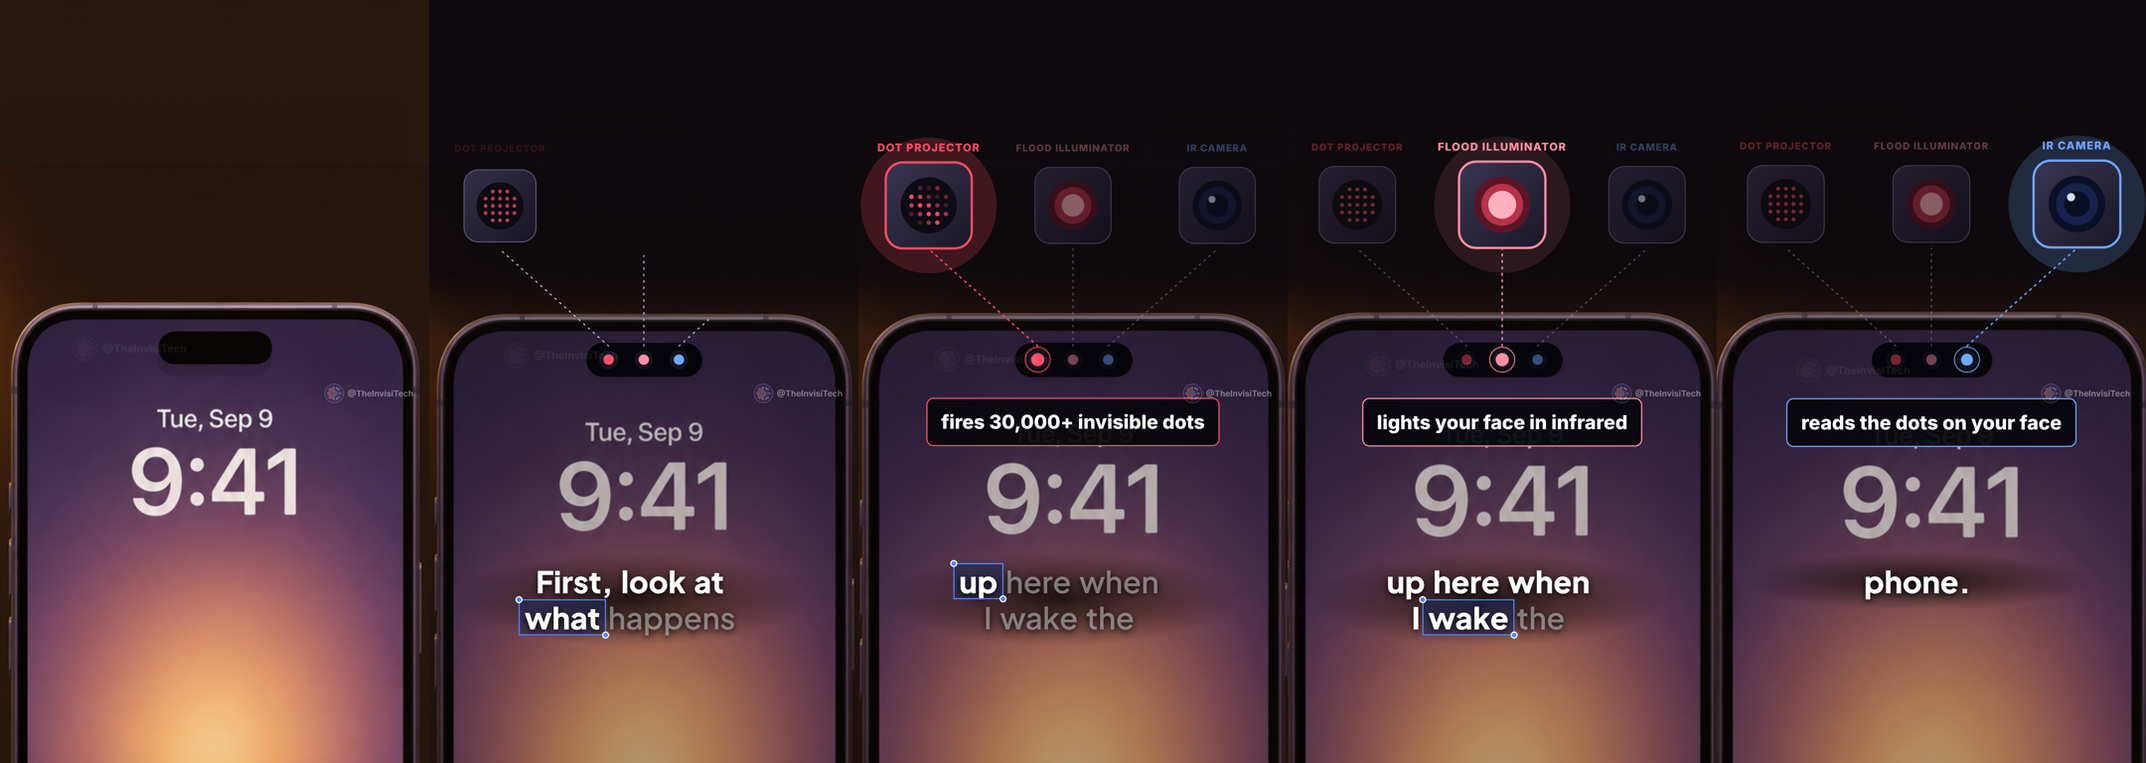
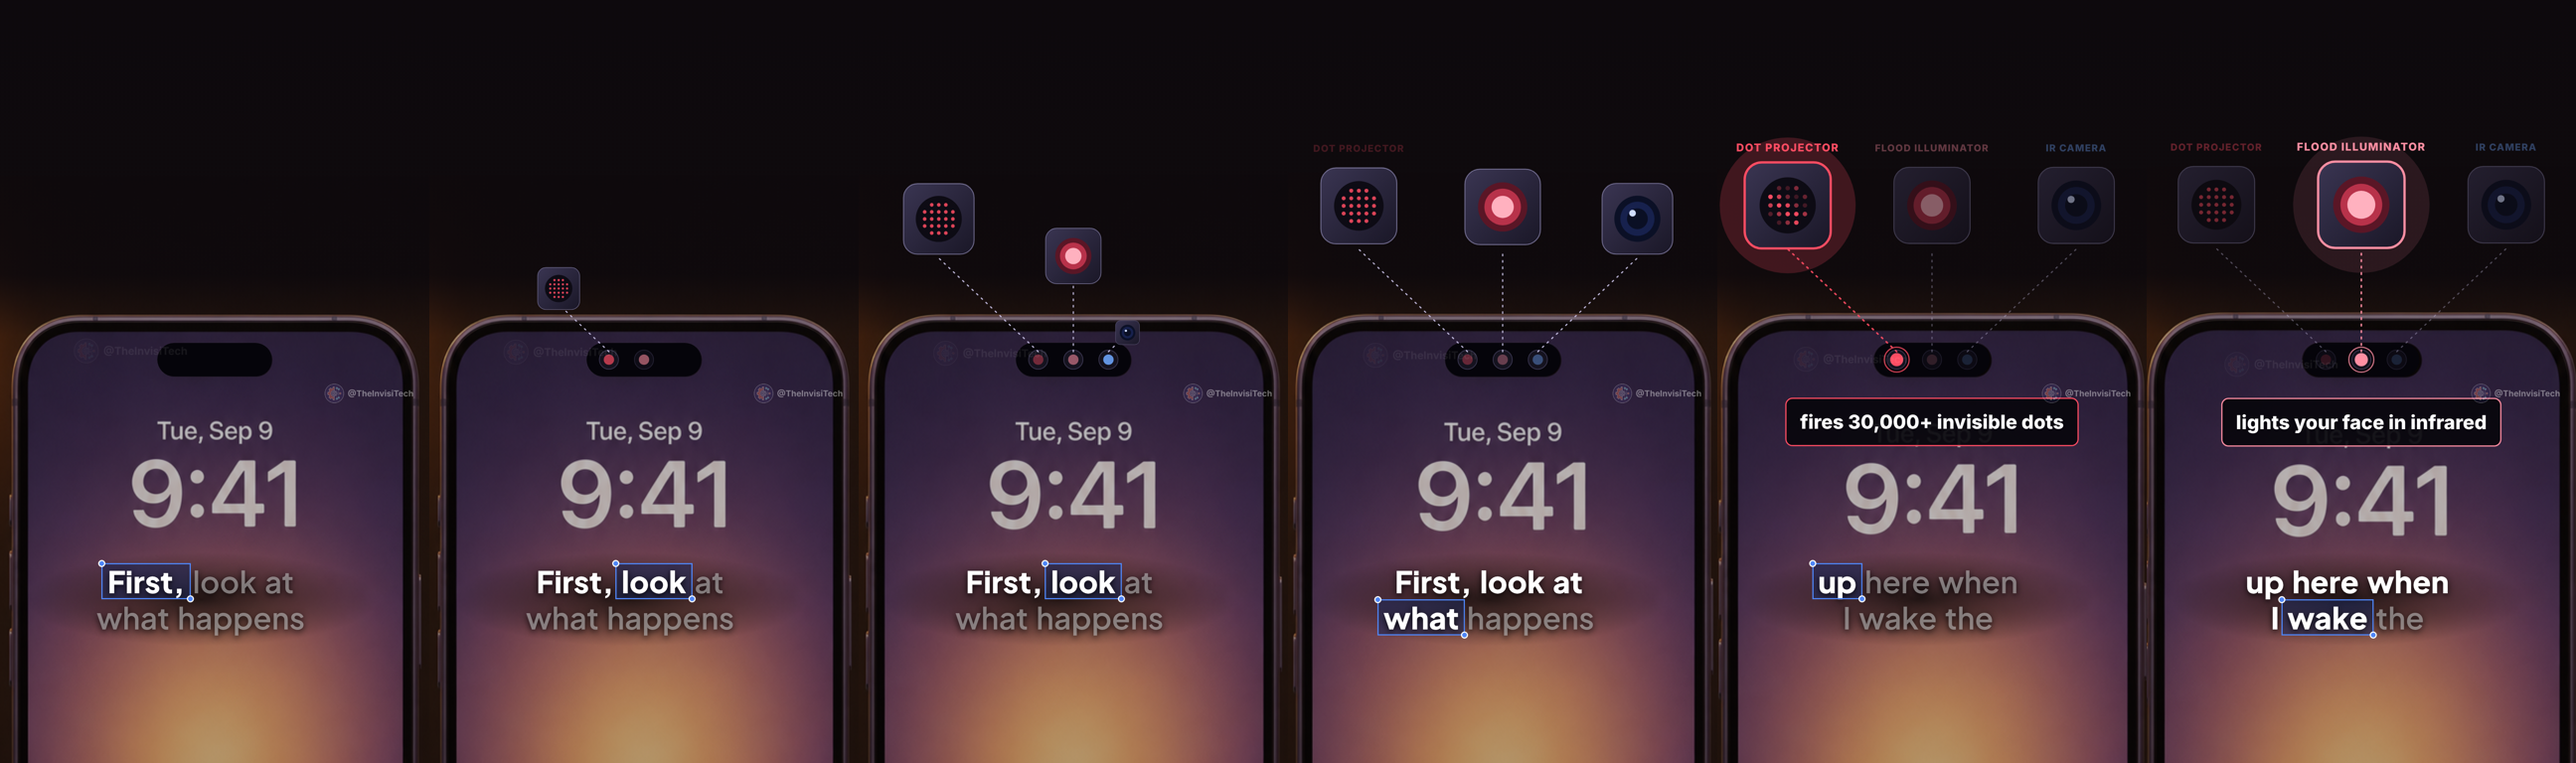
Mirror Short: parts are pushed up out of the real phone's island to become the cards, then explained
Claude-Session: https://claude.ai/code/session_01GXcKc5WnFrVWBsHLe8YpAy

diff --git a/face-id/mirror-short/src/scenes/PhoneParts.tsx b/face-id/mirror-short/src/scenes/PhoneParts.tsx
@@ -18,6 +18,8 @@ const CY = 520, S = 190;                                   // cards: centre y an
 export const PhoneParts: React.FC<{ f: number }> = ({ f }) => {
   const m = ramp(f, IN + 2, IN + 18, 0, 1, io);            // island settles from the photo's island to the diagram's
   const iw = 288, ih = 84, icy = 905;                       // the real phone's own Dynamic Island (HandPhone settles it here)
+  // tear-down: each part is pushed up out of the island along its own line and becomes its card
+  const lift = (i: number) => ramp(f, IN + 14 + i * 4, IN + 30 + i * 4, 0, 1, out3);
   const active = f < EXPLAIN ? -1 : Math.min(2, Math.floor((f - EXPLAIN) / CARD));
   return (
     <AbsoluteFill style={{ opacity: ramp(f, IN, IN + 8), background: 'linear-gradient(180deg, rgba(8,6,12,.86) 0%, rgba(8,6,12,.8) 36%, rgba(8,6,12,.25) 44%, rgba(8,6,12,.3) 100%)', overflow: 'hidden' }}>
@@ -32,23 +34,23 @@ export const PhoneParts: React.FC<{ f: number }> = ({ f }) => {
         <rect x={540 - iw / 2} y={icy - ih / 2} width={iw} height={ih} rx={ih / 2} fill="#05040a" />
         {PARTS.map((p, i) => { const o = ramp(f, IN + 12 + i * 3, IN + 18 + i * 3), act = active === i, dim = active >= 0 && !act;
           return (<g key={p.label} opacity={o * (dim ? 0.45 : 1)}>
-            <circle cx={p.dx} cy={icy} r={24} fill="#15131f" /><circle cx={p.dx} cy={icy} r={(act ? 16 + 1.5 * Math.sin(f / 2) : 13)} fill={p.col} />
+            <circle cx={p.dx} cy={icy} r={24} fill="#15131f" stroke="#3a3650" strokeWidth={2} /><circle cx={p.dx} cy={icy} r={(act ? 16 + 1.5 * Math.sin(f / 2) : 13)} fill={p.col} opacity={act ? 1 : 1 - 0.65 * lift(i)} />
             {act && <circle cx={p.dx} cy={icy} r={31} fill="none" stroke={p.col} strokeWidth={3} opacity={0.8} />}
           </g>); })}
         {/* dashed links, drawn from each dot up to its card */}
-        {PARTS.map((p, i) => { const t = ramp(f, IN + 20 + i * 5, IN + 30 + i * 5, 0, 1, out3), act = active === i, y0 = 905 - 34, y1 = CY + S / 2 + 14;
+        {PARTS.map((p, i) => { const t = lift(i), act = active === i, y0 = 905 - 20, y1 = CY + S / 2 + 14;
           return t > 0 ? <line key={p.label} x1={p.dx} y1={y0} x2={p.dx + (p.x - p.dx) * t} y2={y0 + (y1 - y0) * t} stroke={act ? p.col : '#cfc8ee'} strokeWidth={act ? 4 : 3} strokeDasharray="4 12" strokeLinecap="round" opacity={active >= 0 && !act ? 0.35 : 0.9} /> : null; })}
         {/* the cards */}
-        {PARTS.map((p, i) => { const t = ramp(f, IN + 26 + i * 5, IN + 36 + i * 5, 0, 1, out3), act = active === i, dim = active >= 0 && !act, sc = (0.6 + 0.4 * t) * (act ? 1.13 : 1);
+        {PARTS.map((p, i) => { const t = lift(i), act = active === i, dim = active >= 0 && !act, sc = (0.17 + 0.83 * t) * (act ? 1.13 : 1);
           return t > 0 ? (
-            <g key={p.label} transform={`translate(${p.x} ${CY}) scale(${sc})`} opacity={t * (dim ? 0.5 : 1)}>
+            <g key={p.label} transform={`translate(${p.dx + (p.x - p.dx) * t} ${icy + (CY - icy) * t}) scale(${sc})`} opacity={Math.min(1, t * 6) * (dim ? 0.5 : 1)}>
               {act && <circle r={150} fill={p.col} opacity={0.16 + 0.05 * Math.sin(f / 3)} />}
               <rect x={-S / 2} y={-S / 2} width={S} height={S} rx={38} fill="url(#pp-card)" stroke={act ? p.col : '#6f6a8c'} strokeWidth={act ? 5 : 2.5} />
               {i === 0 && <><circle r={62} fill="#0d0b14" />{Array.from({ length: 25 }, (_, k) => <circle key={k} cx={((k % 5) - 2) * 19} cy={(Math.floor(k / 5) - 2) * 19} r={5} fill={RED} opacity={Math.hypot((k % 5) - 2, Math.floor(k / 5) - 2) > 2.6 ? 0 : act ? 0.6 + 0.4 * Math.sin(f / 2 + k) : 0.85} />)}</>}
               {i === 1 && <><circle r={62} fill="#5a1626" /><circle r={46} fill="#b8324a" /><circle r={(act ? 30 + 3 * Math.sin(f / 2) : 28)} fill="#ffb1bf" /></>}
               {i === 2 && <><circle r={62} fill="#0b1026" /><circle r={46} fill="#17214d" /><circle r={28} fill="#0a0f24" /><circle cx={-13} cy={-15} r={9} fill="#cfdcff" /></>}
             </g>) : null; })}
-        {PARTS.map((p, i) => { const t = ramp(f, IN + 30 + i * 5, IN + 38 + i * 5), act = active === i, dim = active >= 0 && !act;
+        {PARTS.map((p, i) => { const t = ramp(f, IN + 30 + i * 4, IN + 36 + i * 4), act = active === i, dim = active >= 0 && !act;
           return <text key={p.label} x={p.x} y={CY - S / 2 - 40} textAnchor="middle" fill={p.col} opacity={t * (dim ? 0.35 : 1)} style={{ font: `800 ${act ? 27 : 24}px ${FONT}`, letterSpacing: '0.08em' }}>{p.label}</text>; })}
       </svg>
       {/* what the highlighted part does */}
